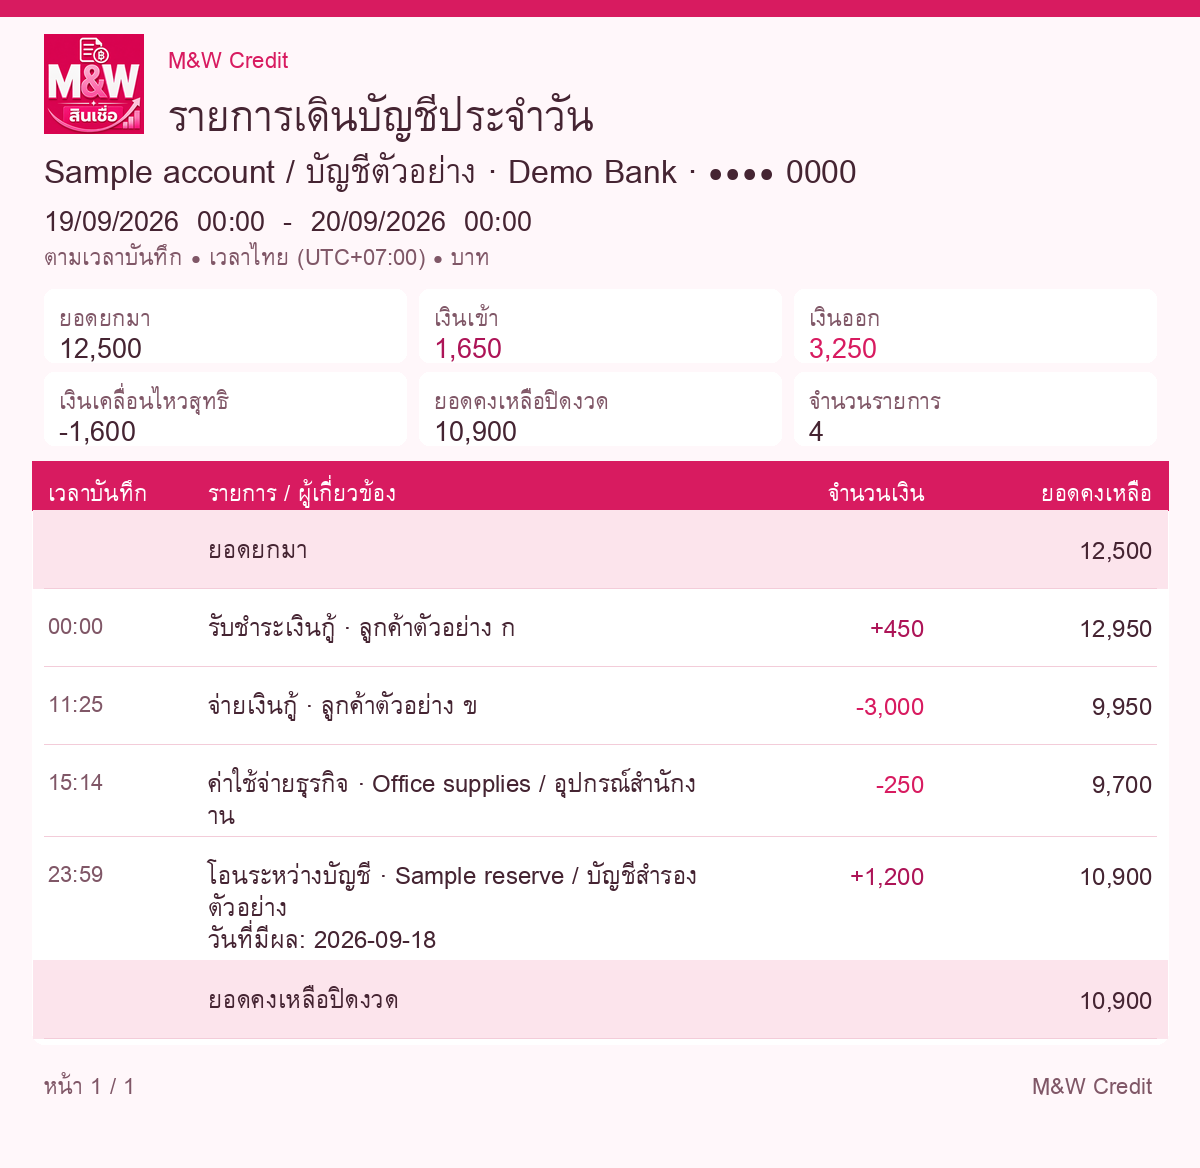
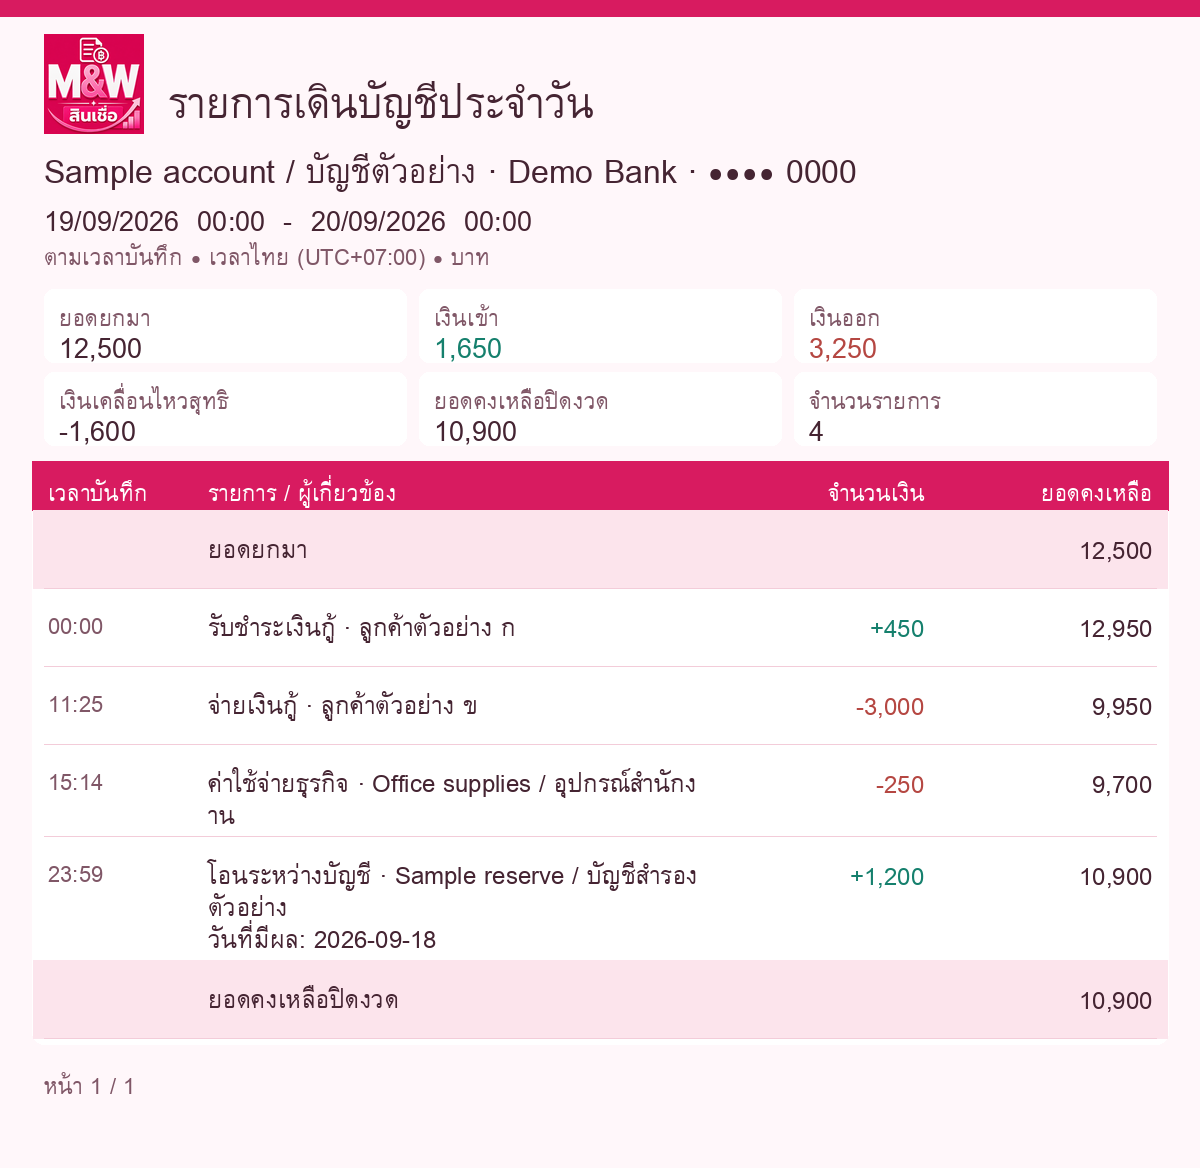
Record Thai September 20 preview delivery and updated visual samples

diff --git a/Change Logs/CHANGE_NOTES_DAILY_CASH_STATEMENT_2026-09-20.md b/Change Logs/CHANGE_NOTES_DAILY_CASH_STATEMENT_2026-09-20.md
@@ -6,6 +6,10 @@ Starting clean Git commit `3a60eef9fbad31ed665981d6b48affa8d7c5e83d`. Owner requ
 
 At request time Bangkok was 20 September 23:11, so this run must be a visibly labeled preview through its captured cutoff. It cannot claim a completed 20 September day. Explicit dated Thai review requires exactly one enabled Partner, retains normal eligibility/identity/window controls, and uses isolated snapshot storage/send keys. A retry reuses its frozen cutoff; normal finalized statements remain separate. Catalogue revision 5 records this narrow exception. Scheduling remains off. Deployment, visual verification and delivery are in progress.
 
+Installed runtime checkpoint `1dce43a`; rollback package/config is `/var/lib/mw-integration-agent/rollback/cash-statement-20260920T231407` (previous installed implementation `b52febf`, evidence checkout `3a60eef`). All **23 Debian tests passed**, including explicit current-day preview/future rejection; Windows passed 21 with two Debian-only renderer checks skipped. The actual review snapshot covers **20 September 00:00 through 23:14:15.761195 Bangkok**. Four closing balances independently reconcile to direct Cash Ledger totals; 23 transaction rows are within the captured period. Eight private images were rendered, and synthetic normal/Thai-preview layouts were visually verified for logo-only branding, green/red amounts, date interval and visible incomplete-day label. Partner language data was not edited.
+
+**Completed and sent for review:** four Thai account images were accepted by Meta for the currently enabled Partner. The journal retains 12 accepted sends across all three authorized rounds and no unknown outcomes. Sending, processing, writes and daily briefing flags read back false. Scheduling remains off. This Thai override is explicit per run; ordinary delivery continues using the Partner's saved preference. Owner acceptance remains pending.
+
 ## Owner refinement — calendar day and M&W Credit branding
 
 Starting clean Git commit `5fd7f5b4773c71d30e80327bf05d6febddff3a30`; live VM checkout matches. The owner revised the reporting window to a full Bangkok calendar day, 00:00 inclusive through next midnight exclusive, retaining posting-time basis. Display all amounts without decimals, transaction times as HH:MM, organization name **M&W Credit**, no footer date, and primary color **#D81B60** with coordinated pink shades. These instructions supersede the historical 06:00 design below.

diff --git a/outputs/cash-statement-sample/README.md b/outputs/cash-statement-sample/README.md
@@ -2,9 +2,10 @@
 
 These are synthetic fixtures, not production statements. Images show the revised midnight-to-midnight M&W Credit statement with whole-baht amounts, HH:MM times and #D81B60 branding. They are regenerated on Debian and visually checked in both languages.
 
-Final revision includes the owner-supplied logo, bundled locally in the Debian package. Generated and visually checked at runtime commit `b52febf`.
+Final revision uses only the owner-supplied logo (no repeated brand text), pink layout accents, green incoming amounts and red outgoing amounts. Generated and visually checked at runtime commit `1dce43a`.
 
 - `cash-statement-en.png`: English, four example transactions.
 - `cash-statement-th.png`: Thai, same amounts and transactions.
+- `cash-statement-th-preview.png`: synthetic Thai example of the explicit incomplete-day preview notice; use the sample script's `--preview` flag. This fixture uses 19 September; the actual private owner-review report is dated 20 September.
 
 The fixtures cover incoming payment, outgoing loan, expense, transfer, a backdated effective date, and the exact 00:00 / 23:59:59 boundaries. Expected opening 12,500; money in 1,650; money out 3,250; net −1,600; closing 10,900. Live statements stay private on the VM and were sent through Instagram, never committed.
